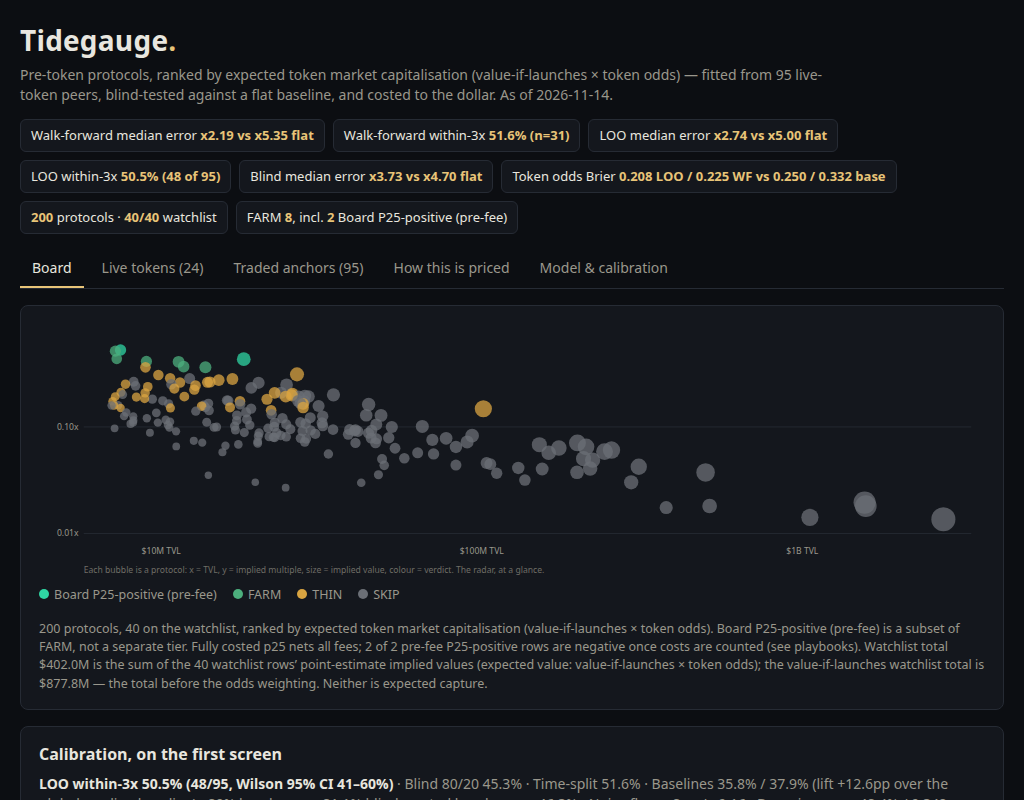
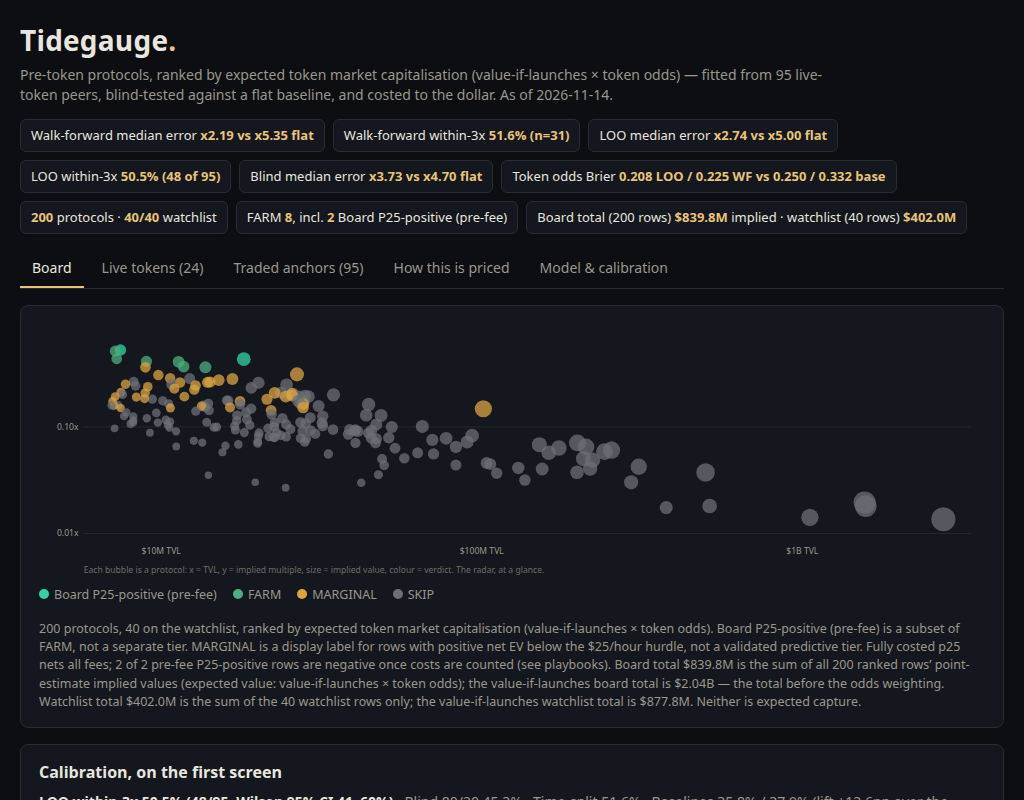
Round 11 (display-only): 200-row total, EV/h sort, MARGINAL label, old odds
Display-only port of round 10 on the round-8 model: headline board
total sums all 200 rows (watchlist kept as a labelled 40-row subtotal),
default board sort is net $/h with a toggle back to implied value, and
THIN is relabelled MARGINAL at render time (verdictLabel/Class/
FilterValue map the data value; the data still carries THIN) with the
display-only disclosure in the dossier text. lib/model.ts is untouched:
the age+size logistic odds stay (Brier 0.2085 LOO / 0.2253 WF), board
total $839.8M, watchlist $402.0M, top Steakhouse $37.33M at 0.583,
FARM 8, positive-EV 44. Two harness runs (92s/90s) byte-identical.

diff --git a/dashboard/app.js b/dashboard/app.js
@@ -8,6 +8,18 @@
 // regenerates the farm plans (farmStepsFor) with the same functions main.ts
 // runs, and checks both against the board's data. A mismatch shows a
 // warning: the screenshots and the code must agree.
+//
+// Round 11 (display-only, old odds): the token-odds model stays the
+// round-8 age + size logistic (Brier 0.208 LOO / 0.225 walk-forward).
+// The board table sorts by net $/hour by default. The headline board
+// total sums implied value across all 200 ranked rows (the 40-row
+// watchlist is a labelled subtotal). MARGINAL is a display label for
+// rows with positive net EV below the $25/hour hurdle \u2014 a
+// classification of the existing numbers, NOT a validated predictive
+// tier (the tier monotonicity gate failed: leave-one-out FARM positive
+// rate 50% below MARGINAL's 87.5%). The data still carries the
+// verdict 'THIN'; verdictLabel/verdictClass/verdictFilterValue map it
+// to MARGINAL at render time, the way P25-POSITIVE is already mapped.
 
 (function () {
   'use strict';
@@ -17,7 +29,7 @@
   var MODEL = DATA.model;
   var FIT = DATA.fit;
   var app = document.getElementById('board');
-  var state = { q: '', category: 'all', chain: 'all', verdict: 'all', minImp: '', sort: 'implied', dir: -1, tab: 'board', selected: null };
+  var state = { q: '', category: 'all', chain: 'all', verdict: 'all', minImp: '', sort: 'perhour', dir: -1, tab: 'board', selected: null };
 
   function esc(s) {
     return String(s === null || s === undefined ? '' : s).replace(/&/g, '&amp;').replace(/</g, '&lt;').replace(/>/g, '&gt;').replace(/"/g, '&quot;');
@@ -75,8 +87,10 @@
     return null;
   }
   function verdictCounts() {
-    var c = { 'P25-POSITIVE': 0, FARM: 0, THIN: 0, SKIP: 0 };
-    DATA.rows.forEach(function (r) { if (c[r.farm.verdict] !== undefined) c[r.farm.verdict]++; });
+    // The data carries 'THIN'; the board counts it under its display
+    // label MARGINAL (see verdictLabel below).
+    var c = { 'P25-POSITIVE': 0, FARM: 0, MARGINAL: 0, SKIP: 0 };
+    DATA.rows.forEach(function (r) { var k = r.farm.verdict === 'THIN' ? 'MARGINAL' : r.farm.verdict; if (c[k] !== undefined) c[k]++; });
     return c;
   }
   // How many Board P25-positive (pre-fee) rows go negative at p25 once
@@ -459,7 +473,7 @@
     var X = function (v) { return L + ((v - xlo) / (xhi - xlo)) * (W - L - R); };
     var Y = function (v) { return T + (1 - (v - ylo) / (yhi - ylo)) * (H - T - B); };
     var maxImp = Math.max.apply(null, rows.map(function (r) { return r.implied_value_usd; }));
-    var col = { 'P25-POSITIVE': '#2fd6a3', FARM: '#4caf7d', THIN: '#d9a441', SKIP: '#6b6f76' };
+    var col = { 'P25-POSITIVE': '#2fd6a3', FARM: '#4caf7d', MARGINAL: '#d9a441', SKIP: '#6b6f76' };
     var s = svgOpen(W, H);
     s += '<rect x="0" y="0" width="' + W + '" height="' + H + '" fill="#14171d"/>';
     logTicks(Math.log10(5e6), Math.log10(5e9)).forEach(function (e) {
@@ -478,7 +492,7 @@
     });
     rows.forEach(function (r) {
       var rad = 3 + 11 * Math.sqrt(r.implied_value_usd / maxImp);
-      s += '<circle cx="' + X(Math.log(r.tvl_usd)).toFixed(1) + '" cy="' + Y(Math.log10(Math.max(r.multiple, 0.001))).toFixed(1) + '" r="' + rad.toFixed(1) + '" fill="' + (col[r.farm.verdict] || '#6b6f76') + '" opacity="0.75"/>';
+      s += '<circle cx="' + X(Math.log(r.tvl_usd)).toFixed(1) + '" cy="' + Y(Math.log10(Math.max(r.multiple, 0.001))).toFixed(1) + '" r="' + rad.toFixed(1) + '" fill="' + (col[r.farm.verdict === 'THIN' ? 'MARGINAL' : r.farm.verdict] || '#6b6f76') + '" opacity="0.75"/>';
     });
     s += '<text x="' + L + '" y="' + (H - 8) + '" fill="#6f6d66" font-size="10">Each bubble is a protocol: x = TVL, y = implied multiple, size = implied value, colour = verdict. The radar, at a glance.</text>';
     s += '</svg>';
@@ -591,17 +605,22 @@
   // counts and the self-check compare against it), but no rendered text,
   // class or option value carries the bare string. The filter uses the
   // slug 'p25p' for the same reason.
+  // MARGINAL is a display label for the data verdict 'THIN' (positive
+  // net EV below the $25/hour hurdle), the same pattern as
+  // P25-POSITIVE above: the data value never changes \u2014 filters, counts
+  // and the self-check compare against it \u2014 only the rendered text,
+  // class and filter slug carry MARGINAL.
   function verdictLabel(v) {
-    return v === 'P25-POSITIVE' ? 'Board P25-positive (pre-fee)' : v;
+    return v === 'P25-POSITIVE' ? 'Board P25-positive (pre-fee)' : v === 'THIN' ? 'MARGINAL' : v;
   }
   function verdictClass(v) {
-    return v === 'P25-POSITIVE' ? 'P25P' : v;
+    return v === 'P25-POSITIVE' ? 'P25P' : v === 'THIN' ? 'MARGINAL' : v;
   }
   function verdictFilterValue(v) {
-    return v === 'P25-POSITIVE' ? 'p25p' : v;
+    return v === 'P25-POSITIVE' ? 'p25p' : v === 'THIN' ? 'marginal' : v;
   }
   function verdictFromFilter(f) {
-    return f === 'p25p' ? 'P25-POSITIVE' : f;
+    return f === 'p25p' ? 'P25-POSITIVE' : (f === 'marginal' || f === 'MARGINAL') ? 'THIN' : f;
   }
   // P25-FULL marker: the row still breaks even at p25 once every fee is
   // counted. Only the rows that do carry it.
@@ -820,7 +839,7 @@
     var farmTotal = (c['P25-POSITIVE'] || 0) + c.FARM;
     var w = medianBand50Width();
     var v = DATA.validation;
-    var h = '<div class="panel bandstrip"><p><b>Verdicts:</b> FARM ' + farmTotal + ', incl. ' + (c['P25-POSITIVE'] || 0) + ' Board P25-positive (pre-fee) &middot; THIN ' + c.THIN + ' &middot; SKIP ' + c.SKIP + '. Board P25-positive (pre-fee) is a subset of FARM (' + (c['P25-POSITIVE'] || 0) + ' of ' + farmTotal + '), not a fourth tier. Fully costed p25 nets all fees; ' + p25FullyCostedNegative().neg + ' of the ' + p25FullyCostedNegative().total + ' pre-fee P25-positive rows are negative once costs are counted (see playbooks).</p>';
+    var h = '<div class="panel bandstrip"><p><b>Verdicts:</b> FARM ' + farmTotal + ', incl. ' + (c['P25-POSITIVE'] || 0) + ' Board P25-positive (pre-fee) &middot; MARGINAL ' + c.MARGINAL + ' &middot; SKIP ' + c.SKIP + '. Board P25-positive (pre-fee) is a subset of FARM (' + (c['P25-POSITIVE'] || 0) + ' of ' + farmTotal + '), not a fourth tier. MARGINAL is a display label for rows with positive net EV below the $25/hour hurdle \u2014 a classification of the existing numbers, not a validated predictive tier (the tier monotonicity gate failed: leave-one-out FARM positive rate 50% below MARGINAL\u2019s 87.5%). Fully costed p25 nets all fees; ' + p25FullyCostedNegative().neg + ' of the ' + p25FullyCostedNegative().total + ' pre-fee P25-positive rows are negative once costs are counted (see playbooks).</p>';
     if (w !== null) h += '<p><b>The middle half:</b> across the board, the central band (45% coverage, p25\u2013p75) spans a median of ' + w.toFixed(1) + 'x from low end to high end \u2014 half of each row\u2019s plausible value sits inside that range, and half sits outside it.</p>';
     if (v.looBandRatioLo !== null && v.looBandRatioLo !== undefined && v.looBandRatioHi !== null && v.looBandRatioHi !== undefined) {
       h += '<p><b>Leave-one-out check:</b> the middle half of actual/implied ratios across the fit peers runs ' + v.looBandRatioLo.toFixed(2) + 'x\u2013' + v.looBandRatioHi.toFixed(2) + 'x \u2014 that is the shaded band in the scatter chart above.</p>';
@@ -846,9 +865,17 @@
     var lift = (v.adoptedWithin3 !== null && v.adoptedWithin3 !== undefined && flatGlobal) ? v.adoptedWithin3 - flatGlobal.within3 : null;
     var h = '<div class="panel calibstrip"><h2>Calibration, on the first screen</h2>' +
       '<p><b>LOO within-3x ' + fnum(v.adoptedWithin3, '', 1, '%') + ' (' + hits + '/' + looN + ', Wilson 95% CI ' + Math.round(ci[0] * 100) + '\u2013' + Math.round(ci[1] * 100) + '%)</b> &middot; Blind 80/20 ' + fnum(v.blindWithin3, '', 1, '%') + ' &middot; Time-split ' + fnum(v.timeSplitWithin3, '', 1, '%') + ' &middot; Baselines ' + (flat025 ? fnum(flat025.within3, '', 1, '%') : 'n/a') + ' / ' + (flatGlobal ? fnum(flatGlobal.within3, '', 1, '%') : 'n/a') + (lift === null ? '' : ' (lift +' + lift.toFixed(1) + 'pp over the global-median baseline)') + ' &middot; 80% band covers ' + (b.blindCov80 === undefined ? 'n/a' : (b.blindCov80 * 100).toFixed(1) + '%') + ' blind, central band covers ' + (b.blindCov50 === undefined ? 'n/a' : (b.blindCov50 * 100).toFixed(1) + '%') + ' &middot; Noise floor \u00b18pp / \u00b10.16 &middot; Bare size curve ' + (size ? fnum(size.within3, '', 1, '%') + ' / ' + fnum(size.spearman, '', 3, '') : 'n/a') + ' vs full model ' + fnum(v.adoptedWithin3, '', 1, '%') + ' / ' + fnum(v.adoptedSpearman, '', 3, '') + '.</p>' +
+      '<p><b>Board total (all 200 ranked rows): ' + fmtUsd(boardTotalAll()) + ' implied value</b> (' + fmtUsd(boardVilAll()) + ' value-if-launches) &middot; watchlist subtotal (40 rows): ' + fmtUsd(wlTotalSum()) + ' implied (' + fmtUsd(wlVilSum()) + ' value-if-launches). The headline total sums every ranked row; the watchlist is a labelled subset of it, not the whole board.</p>' +
       '<p>LOO on the ' + looN + ' peers with listing dates; ' + fnum(v.loo128Within3, '', 1, '%') + ' on all ' + looU + ' traded peers \u2014 the 33 peers without a listing date are systematically harder. Denominators, reconciled: ' + DATA.board_size + ' board rows \u2192 ' + looU + ' traded-token universe \u2192 ' + looN + ' scored peers \u2192 ' + v.timeSplitN + ' time-split. As of ' + esc(DATA.as_of) + ' \u00b7 Source: ' + esc(DATA.source) + '. Blind numbers are the mean across five 80/20 splits (seeds 11, 23, 37, 41, 53), each n=19 \u2014 not a pooled rate.</p></div>';
     return h;
   }
+  // Board totals, computed from the rows, never hardcoded: the headline
+  // total across all 200 ranked rows, the value-if-launches total, and the
+  // watchlist subtotals. The legend and the header KPIs read these.
+  function boardTotalAll() { var t = 0; DATA.rows.forEach(function (r) { t += r.implied_value_usd; }); return t; }
+  function boardVilAll() { var t = 0; DATA.rows.forEach(function (r) { t += r.model.value_if_launches; }); return t; }
+  function wlTotalSum() { var t = 0; DATA.rows.forEach(function (r) { if (r.is_watchlist) t += r.implied_value_usd; }); return t; }
+  function wlVilSum() { var t = 0; DATA.rows.forEach(function (r) { if (r.is_watchlist) t += r.model.value_if_launches; }); return t; }
   function boardHtml() {
     var rows = filteredRows();
     var cats = {};
@@ -866,7 +893,7 @@
     var wlVilTotal = 0;
     DATA.rows.forEach(function (r) { if (r.is_watchlist) wlVilTotal += r.model.value_if_launches; });
     var h = '<div class="panel mapwrap">' + bubbleMap(DATA.rows) +
-      '<div class="legend"><span><i style="background:#2fd6a3"></i>Board P25-positive (pre-fee)</span><span><i style="background:#4caf7d"></i>FARM</span><span><i style="background:#d9a441"></i>THIN</span><span><i style="background:#6b6f76"></i>SKIP</span><span>' + DATA.board_size + ' protocols, ' + DATA.watchlist_size + ' on the watchlist, ranked by expected token market capitalisation (value-if-launches &times; token odds). Board P25-positive (pre-fee) is a subset of FARM, not a separate tier. Fully costed p25 nets all fees; ' + p25FullyCostedNegative().neg + ' of ' + p25FullyCostedNegative().total + ' pre-fee P25-positive rows are negative once costs are counted (see playbooks). Watchlist total ' + fmtUsd(wlTotal) + ' is the sum of the ' + DATA.watchlist_size + ' watchlist rows\u2019 point-estimate implied values (expected value: value-if-launches &times; token odds); the value-if-launches watchlist total is ' + fmtUsd(wlVilTotal) + ' \u2014 the total before the odds weighting. Neither is expected capture.</span></div></div>';
+      '<div class="legend"><span><i style="background:#2fd6a3"></i>Board P25-positive (pre-fee)</span><span><i style="background:#4caf7d"></i>FARM</span><span><i style="background:#d9a441"></i>MARGINAL</span><span><i style="background:#6b6f76"></i>SKIP</span><span>' + DATA.board_size + ' protocols, ' + DATA.watchlist_size + ' on the watchlist, ranked by expected token market capitalisation (value-if-launches &times; token odds). Board P25-positive (pre-fee) is a subset of FARM, not a separate tier. MARGINAL is a display label for rows with positive net EV below the $25/hour hurdle, not a validated predictive tier. Fully costed p25 nets all fees; ' + p25FullyCostedNegative().neg + ' of ' + p25FullyCostedNegative().total + ' pre-fee P25-positive rows are negative once costs are counted (see playbooks). Board total ' + fmtUsd(boardTotalAll()) + ' is the sum of all ' + DATA.board_size + ' ranked rows\u2019 point-estimate implied values (expected value: value-if-launches &times; token odds); the value-if-launches board total is ' + fmtUsd(boardVilAll()) + ' \u2014 the total before the odds weighting. Watchlist total ' + fmtUsd(wlTotal) + ' is the sum of the ' + DATA.watchlist_size + ' watchlist rows only; the value-if-launches watchlist total is ' + fmtUsd(wlVilTotal) + '. Neither is expected capture.</span></div></div>';
     h += calibrationStripHtml();
     h += accountingHtml();
     h += '<div class="panel mapwrap"><h2>Where the market sits against the yardstick</h2>' + ratioScatter() + '</div>';
@@ -883,6 +910,7 @@
       '<select id="f-verdict"><option value="all">All verdicts</option>' +
       ['P25-POSITIVE', 'FARM', 'THIN', 'SKIP'].map(function (v) { return '<option value="' + verdictFilterValue(v) + '"' + (verdictFromFilter(state.verdict) === v ? ' selected' : '') + '>' + verdictLabel(v) + '</option>'; }).join('') + '</select>' +
       '<input id="f-min" type="number" min="0" step="1" placeholder="Min implied $M" value="' + esc(state.minImp) + '" style="flex:0 1 130px">' +
+      '<span class="sorttoggle">Sort: <button data-sortbtn="perhour"' + (state.sort === 'perhour' ? ' class="on"' : '') + '>Net $/h</button> <button data-sortbtn="implied"' + (state.sort === 'implied' ? ' class="on"' : '') + '>Implied value</button></span>' +
       '<span class="count">showing ' + rows.length + ' of ' + DATA.rows.length + '</span></div>';
     h += '<table><thead><tr>' +
       '<th data-sort="rank">Rank</th><th>Protocol</th><th class="num" data-sort="tvl">TVL</th><th class="num" data-sort="growth">7d</th><th class="num" data-sort="age">Age</th><th class="num" data-sort="implied">Implied value</th><th class="num" data-sort="odds">Token odds</th><th class="num">P10\u2013P90</th><th class="num">P25\u2013P75</th><th class="num">Multiple</th><th class="num">Gross</th><th class="num">Cost</th><th class="num">Net EV</th><th class="num" data-sort="breakeven">BE odds</th><th class="num" data-sort="perhour">Net $/h</th><th class="num">Fees &middot; Hold</th><th>Verdict</th>' +
@@ -895,7 +923,7 @@
       // beside the pre-fee p25 — the badge is defined on board costs, so
       // the two p25 figures sit next to each other instead of disagreeing
       // across tabs.
-      var vTitle = r.farm.verdict === 'THIN' ? 'THIN: net EV at least $0, but under $40 or under 1.5x the cost \u2014 clears neither FARM gate.' : r.farm.verdict === 'P25-POSITIVE' ? 'Board P25-positive (pre-fee): net EV still at least $0 at the 25th percentile of the model\u2019s out-of-sample error (1 in 4 realisations is worse), on board costs (gas + opportunity cost) only \u2014 the fully costed p25 is shown beside the badge.' : r.farm.verdict === 'FARM' ? 'FARM: net EV at least $40 and at least 1.5x the cost at the median.' : 'SKIP: net EV below $0 at the median.';
+      var vTitle = r.farm.verdict === 'THIN' ? 'MARGINAL: net EV at least $0, but under $40 or under 1.5x the cost \u2014 clears neither FARM gate. A display label for positive-EV rows below the $25/hour hurdle, not a validated predictive tier.' : r.farm.verdict === 'P25-POSITIVE' ? 'Board P25-positive (pre-fee): net EV still at least $0 at the 25th percentile of the model\u2019s out-of-sample error (1 in 4 realisations is worse), on board costs (gas + opportunity cost) only \u2014 the fully costed p25 is shown beside the badge.' : r.farm.verdict === 'FARM' ? 'FARM: net EV at least $40 and at least 1.5x the cost at the median.' : 'SKIP: net EV below $0 at the median.';
       var vCell = verdictBadge(r.farm.verdict) + p25FullMarker(r);
       if (r.farm.verdict === 'P25-POSITIVE' && r.playbook) {
         vCell += '<span class="p25full">pre-fee p25 ' + (r.playbook.netEvP25Board >= 0 ? '+' : '') + fmtUsd2(r.playbook.netEvP25Board) + ' \u00b7 fully costed p25 ' + (r.playbook.netEvP25Full >= 0 ? '+' : '') + fmtUsd2(r.playbook.netEvP25Full) + '</span>';
@@ -1021,7 +1049,7 @@
       '<p><b>Coherence:</b> Spearman between TVL and implied value across the 40 watchlist rows is ' + v.coherence.toFixed(3) + ' (bar 0.75) \u2014 the multipliers do not overpower TVL. <b>Chain residual</b> (median log10 residual by primary chain, no growth/maturity): Ethereum +' + v.chainEthDex.toFixed(3) + ' dex, Solana ' + v.chainSolDex.toFixed(3) + ' dex.</p>' +
       '<h3>Calibration</h3>' + calibrationChart() +
       '<h3>Farm verdicts</h3>' +
-      '<p>Each row\u2019s verdict is a visible subtraction, not a threshold on value. The hypothetical airdrop pool is 8% of the implied value (a stated assumption \u2014 the snapshot cannot establish whether an airdrop will happen); the farmer\u2019s share is the pool times $2,500 of capital over the protocol\u2019s TVL; the cost is the steps\u2019 gas plus 4.5% a year on the capital for 90 days. <b>FARM</b> needs a net expected value of at least $40 and at least 1.5x the cost; <b>THIN</b> needs a net expected value of at least $0; anything else is <b>SKIP</b>. The $40 threshold was set from the distribution so that it adds nothing the 1.5x ratio test has not already selected. A $2.75B-TVL curator gives a $2,500 position almost nothing \u2014 that is dilution, honestly reported, and why an impressive TVL never automatically means FARM.</p>' +
+      '<p>Each row\u2019s verdict is a visible subtraction, not a threshold on value. The hypothetical airdrop pool is 8% of the implied value (a stated assumption \u2014 the snapshot cannot establish whether an airdrop will happen); the farmer\u2019s share is the pool times $2,500 of capital over the protocol\u2019s TVL; the cost is the steps\u2019 gas plus 4.5% a year on the capital for 90 days. <b>FARM</b> needs a net expected value of at least $40 and at least 1.5x the cost; <b>MARGINAL</b> needs a net expected value of at least $0; anything else is <b>SKIP</b>. MARGINAL is a display label for the positive-EV rows that clear neither FARM gate (below the $25/hour hurdle) \u2014 a classification of the existing numbers, NOT a validated predictive tier: the tier monotonicity gate failed (leave-one-out FARM positive rate 50% below MARGINAL\u2019s 87.5%), so the tiers are not presented as a prediction of which rows will pay. The $40 threshold was set from the distribution so that it adds nothing the 1.5x ratio test has not already selected. A $2.75B-TVL curator gives a $2,500 position almost nothing \u2014 that is dilution, honestly reported, and why an impressive TVL never automatically means FARM.</p>' +
       '<p><b>Board P25-positive (pre-fee)</b> is a FARM row whose net expected value is still at least $0 at the 25th percentile of the model\u2019s out-of-sample error (1 in 4 realisations is worse \u2014 p25 is not the low end), on top of the FARM gates ($40 net EV and 1.5x the cost at the median). No row on this board clears $40 at p25; the strongest p25 case is ' + (bestP25 === null ? 'n/a' : esc(bestP25.name) + ' at +' + fmtUsd2(bestP25.farm.netEvP25)) + '. The original $40-at-p25 bar returned zero rows, so the tier is defined by the break-even floor instead \u2014 a disclosed change, not a hidden one. Board P25-positive (pre-fee) is a subset of FARM (' + (vc['P25-POSITIVE'] || 0) + ' of ' + farmTotal + '), not a fourth tier. The badge is defined on board costs (gas + opportunity cost) only: fully costed p25 nets all fees, and ' + p25FullyCostedNegative().neg + ' of the ' + p25FullyCostedNegative().total + ' pre-fee P25-positive rows are negative once costs are counted (see playbooks). Every row also carries its <b>break-even odds</b> \u2014 the chance the token\u2019s value lands above the value at which the farm breaks even \u2014 and its <b>net $/hour</b>, the net expected value divided by the hands-on minutes the plan asks for, so a slow farm can be compared with a quick one on the same footing.</p>' +
       playbookMethodHtml() +
       '<h3>What this does not do</h3>' +
@@ -1262,7 +1290,7 @@
       }).join('') + '</tbody></table>' +
       '<h3>Farm plan</h3>' +
       '<div class="verdictbox ' + verdictClass(f.verdict) + '"><b>' + verdictLabel(f.verdict) + '</b>' + p25FullMarker(row) + ' &middot; net expected value <span class="net">' + (f.netEv >= 0 ? '+' : '') + fmtUsd2(f.netEv) + '</span> on $' + f.capital.toLocaleString('en-US') + ' of capital' +
-      '<br><span class="small">Hypothetical pool 8% of implied value = ' + fmtUsd(f.pool) + '; your share (pool x $' + f.capital.toLocaleString('en-US') + ' / ' + fmtUsd(row.tvl_usd) + ' TVL) = ' + fmtUsd2(f.share) + '; gas ' + fmtUsd2(f.gasTotal) + ' + opportunity cost ' + fmtUsd2(f.oppCost) + ' = ' + fmtUsd2(f.totalCost) + ' total; share &minus; cost = ' + fmtUsd2(f.netEv) + ' (' + f.netEvRatio.toFixed(2) + 'x the cost). FARM needs at least $40 and 1.5x; THIN needs at least $0.' + p25Note + beNote + '</span></div>' +
+      '<br><span class="small">Hypothetical pool 8% of implied value = ' + fmtUsd(f.pool) + '; your share (pool x $' + f.capital.toLocaleString('en-US') + ' / ' + fmtUsd(row.tvl_usd) + ' TVL) = ' + fmtUsd2(f.share) + '; gas ' + fmtUsd2(f.gasTotal) + ' + opportunity cost ' + fmtUsd2(f.oppCost) + ' = ' + fmtUsd2(f.totalCost) + ' total; share &minus; cost = ' + fmtUsd2(f.netEv) + ' (' + f.netEvRatio.toFixed(2) + 'x the cost). FARM needs at least $40 and 1.5x; MARGINAL needs at least $0.' + p25Note + beNote + '</span></div>' +
       '<ol class="steps">' + row.farm_steps.map(function (s) { return '<li>' + esc(s) + '</li>'; }).join('') + '</ol>' +
       '<p class="small"><b>Downside:</b> at the 25th percentile (p25 ' + (p25 === null ? 'n/a' : fmtUsd(p25)) + ') the pool is ' + (pool25 === null ? 'n/a' : fmtUsd(pool25)) + ', your share ' + (share25 === null ? 'n/a' : fmtUsd2(share25)) + ', the same cost ' + fmtUsd2(f.totalCost) + ', so net EV ' + (netEv25 === null ? 'n/a' : (netEv25 >= 0 ? '+' : '') + fmtUsd2(netEv25)) + '. Judged at the median; p25 is the 25th percentile of the model\u2019s out-of-sample error \u2014 1 in 4 realisations is worse, not the low end.</p>' +
       (f.verdict === 'FARM' || f.verdict === 'P25-POSITIVE' ? '<p class="small"><b>P10:</b> ' + fmtUsd(p10) + ' net EV ' + (netEv10 >= 0 ? '+' : '') + fmtUsd2(netEv10) + '. Farm only if it clears p10.</p>' : '') +
@@ -1284,7 +1312,7 @@
     var h = '<div class="wrap">' +
       '<header><h1>Tidegauge<span class="dot">.</span></h1>' +
       '<p class="sub">Pre-token protocols, ranked by expected token market capitalisation (value-if-launches &times; token odds) \u2014 fitted from ' + FIT.peerCount + ' live-token peers, blind-tested against a flat baseline, and costed to the dollar. As of ' + esc(DATA.as_of) + '.</p>' +
-      '<div class="kpi"><span>Walk-forward median error <b>x' + fnum(v.timeSplitMedianMaxRatio, '', 2, '') + ' vs x' + fnum(v.flatTimeSplitMedianMaxRatio, '', 2, '') + ' flat</b></span><span>Walk-forward within-3x <b>' + (v.timeSplitWithin3 === null || v.timeSplitWithin3 === undefined ? 'n/a' : v.timeSplitWithin3.toFixed(1) + '% (n=' + v.timeSplitN + ')') + '</b></span><span>LOO median error <b>x' + fnum(v.adoptedMedianMaxRatio, '', 2, '') + ' vs x' + (looFlatRow() === null ? 'n/a' : fnum(looFlatRow().medianMaxRatio, '', 2, '')) + ' flat</b></span><span>LOO within-3x <b>' + (v.adoptedWithin3 === null || v.adoptedWithin3 === undefined ? 'n/a' : v.adoptedWithin3.toFixed(1) + '% (' + DATA.peers.filter(function (p) { return p.oofWithin3; }).length + ' of ' + (v.peerCount || FIT.peerCount) + ')') + '</b></span><span>Blind median error <b>x' + fnum(v.blindMedianMaxRatio, '', 2, '') + ' vs x' + fnum(v.flatBlindMedianMaxRatio, '', 2, '') + ' flat</b></span><span>Token odds Brier <b>' + DATA.odds.brierLoo.toFixed(3) + ' LOO / ' + DATA.odds.brierWf.toFixed(3) + ' WF vs ' + DATA.odds.baseBrierLoo.toFixed(3) + ' / ' + DATA.odds.baseBrierWf.toFixed(3) + ' base</b></span><span><b>' + DATA.board_size + '</b> protocols &middot; <b>' + DATA.watchlist_size + '/' + DATA.watchlist_size + '</b> watchlist</span><span>FARM <b>' + ((vc['P25-POSITIVE'] || 0) + vc.FARM) + '</b>, incl. <b>' + (vc['P25-POSITIVE'] || 0) + '</b> Board P25-positive (pre-fee)</span></div></header>' +
+      '<div class="kpi"><span>Walk-forward median error <b>x' + fnum(v.timeSplitMedianMaxRatio, '', 2, '') + ' vs x' + fnum(v.flatTimeSplitMedianMaxRatio, '', 2, '') + ' flat</b></span><span>Walk-forward within-3x <b>' + (v.timeSplitWithin3 === null || v.timeSplitWithin3 === undefined ? 'n/a' : v.timeSplitWithin3.toFixed(1) + '% (n=' + v.timeSplitN + ')') + '</b></span><span>LOO median error <b>x' + fnum(v.adoptedMedianMaxRatio, '', 2, '') + ' vs x' + (looFlatRow() === null ? 'n/a' : fnum(looFlatRow().medianMaxRatio, '', 2, '')) + ' flat</b></span><span>LOO within-3x <b>' + (v.adoptedWithin3 === null || v.adoptedWithin3 === undefined ? 'n/a' : v.adoptedWithin3.toFixed(1) + '% (' + DATA.peers.filter(function (p) { return p.oofWithin3; }).length + ' of ' + (v.peerCount || FIT.peerCount) + ')') + '</b></span><span>Blind median error <b>x' + fnum(v.blindMedianMaxRatio, '', 2, '') + ' vs x' + fnum(v.flatBlindMedianMaxRatio, '', 2, '') + ' flat</b></span><span>Token odds Brier <b>' + DATA.odds.brierLoo.toFixed(3) + ' LOO / ' + DATA.odds.brierWf.toFixed(3) + ' WF vs ' + DATA.odds.baseBrierLoo.toFixed(3) + ' / ' + DATA.odds.baseBrierWf.toFixed(3) + ' base</b></span><span><b>' + DATA.board_size + '</b> protocols &middot; <b>' + DATA.watchlist_size + '/' + DATA.watchlist_size + '</b> watchlist</span><span>FARM <b>' + ((vc['P25-POSITIVE'] || 0) + vc.FARM) + '</b>, incl. <b>' + (vc['P25-POSITIVE'] || 0) + '</b> Board P25-positive (pre-fee)</span><span>Board total (200 rows) <b>' + fmtUsd(boardTotalAll()) + '</b> implied &middot; watchlist (40 rows) <b>' + fmtUsd(wlTotalSum()) + '</b></span></div></header>' +
       '<nav class="tabs">' +
       '<button data-tab="board"' + (state.tab === 'board' ? ' class="on"' : '') + '>Board</button>' +
       '<button data-tab="live"' + (state.tab === 'live' ? ' class="on"' : '') + '>Live tokens (' + DATA.live_size + ')</button>' +
@@ -1331,6 +1359,14 @@
         var k = ev.currentTarget.getAttribute('data-sort');
         if (state.sort === k) state.dir = -state.dir;
         else { state.sort = k; state.dir = k === 'rank' ? 1 : -1; }
+        render();
+      });
+    }
+    var sortBtns = app.querySelectorAll('button[data-sortbtn]');
+    for (var sb = 0; sb < sortBtns.length; sb++) {
+      sortBtns[sb].addEventListener('click', function (ev) {
+        state.sort = ev.currentTarget.getAttribute('data-sortbtn');
+        state.dir = -1;
         render();
       });
     }
@@ -1415,7 +1451,7 @@
     closeDetail();
     // Deep-link a filtered board, e.g. #/board?verdict=FARM. The old
     // P25-POSITIVE spelling still links: it is normalised to the filter slug.
-    var vm = hash.match(/verdict=(P25-POSITIVE|p25p|FARM|THIN|SKIP)/);
+    var vm = hash.match(/verdict=(P25-POSITIVE|p25p|FARM|MARGINAL|marginal|THIN|SKIP)/);
     if (vm) state.verdict = verdictFilterValue(vm[1]);
     render();
   }

diff --git a/dashboard/app.css b/dashboard/app.css
@@ -26,6 +26,10 @@ header h1 .dot{color:var(--amber)}
 .filters input,.filters select{background:var(--panel2);color:var(--text);border:1px solid var(--line);border-radius:6px;padding:7px 9px;font:inherit;font-size:13px}
 .filters input{flex:1 1 200px;min-width:160px}
 .filters .count{color:var(--muted);font-size:13px;margin-left:auto}
+.sorttoggle{color:var(--muted);font-size:13px;white-space:nowrap}
+.sorttoggle button{background:var(--panel2);color:var(--muted);border:1px solid var(--line);border-radius:5px;padding:3px 9px;cursor:pointer;font:inherit;font-size:13px}
+.sorttoggle button.on{background:#173b2a;color:#7fd6a4;border-color:#235c3d}
+.sorttoggle button:hover{color:var(--text)}
 table{width:100%;border-collapse:collapse;font-size:13.5px}
 th,td{padding:8px 10px;border-bottom:1px solid var(--line);text-align:left;vertical-align:top}
 th{color:var(--muted);font-weight:600;font-size:12px;text-transform:uppercase;letter-spacing:.4px;cursor:pointer;user-select:none;white-space:nowrap}
@@ -37,7 +41,7 @@ td .cat{display:block;font-size:12px;color:var(--muted)}
 td .slug{color:var(--dim);font-size:12px}
 .badge{display:inline-block;border-radius:5px;padding:2px 8px;font-size:12px;font-weight:650;letter-spacing:.3px}
 .badge.FARM{background:#173b2a;color:#7fd6a4}
-.badge.THIN{background:#3d2f14;color:#e8c478}
+.badge.MARGINAL{background:#3d2f14;color:#e8c478}
 .badge.SKIP{background:#26292f;color:#9a978c}
 .wl{font-size:11px;color:var(--amber);border:1px solid #4a3d22;border-radius:4px;padding:0 5px;margin-left:6px;white-space:nowrap}
 .mech{font-size:11px;color:var(--blue);border:1px solid #2b3d4d;border-radius:4px;padding:0 5px;margin-left:6px;white-space:nowrap}
@@ -68,7 +72,7 @@ td .slug{color:var(--dim);font-size:12px}
 .steps .st-cost{color:var(--muted);font-size:12.5px}
 .verdictbox{border-radius:8px;padding:12px 14px;margin:12px 0;font-size:13.5px}
 .verdictbox.FARM{background:#12291c;border:1px solid #235c3d}
-.verdictbox.THIN{background:#2b2110;border:1px solid #6b5518}
+.verdictbox.MARGINAL{background:#2b2110;border:1px solid #6b5518}
 .verdictbox.SKIP{background:#1a1c20;border:1px solid var(--line)}
 .verdictbox .net{font-size:18px;font-weight:700}
 .warn{background:#2b1610;border:1px solid #6b2d1d;color:#f0b09a;border-radius:6px;padding:10px 12px;margin:12px 0}

diff --git a/main.ts b/main.ts
@@ -112,6 +112,6 @@ const watchTotal = board.filter((r) => r.is_watchlist).reduce((s, r) => s + r.im
 process.stdout.write(
   `token radar: ${snapshot.protocols.length} protocols, ${snapshot.watchlist.length} on the watchlist, ${board.length} rows scored (${radar.early_size} early, ${radar.live_size} live set aside)\n` +
     `token radar: watchlist implied value $${(watchTotal / 1e9).toFixed(3)}B, LOO median error x${radar.validation.adoptedMedianMaxRatio.toFixed(2)}, ${radar.validation.adoptedWithin3.toFixed(1)}% within 3x\n` +
-    `token radar: verdicts P25-POSITIVE ${farm['P25-POSITIVE']} / FARM ${farm.FARM} / THIN ${farm.THIN} / SKIP ${farm.SKIP} (FARM ${farm.FARM + farm['P25-POSITIVE']} incl. P25-positive ${farm['P25-POSITIVE']})\n` +
+    `token radar: verdicts P25-POSITIVE ${farm['P25-POSITIVE']} / FARM ${farm.FARM} / MARGINAL ${farm.THIN} / SKIP ${farm.SKIP} (FARM ${farm.FARM + farm['P25-POSITIVE']} incl. P25-positive ${farm['P25-POSITIVE']})\n` +
     `token radar: wrote ${join(out, 'board.json')}, ${join(out, 'data.js')}, ${join(out, 'dashboard')} (${dashFiles.length} files), ${join(out, 'screenshots')} (${shots.length} images) and ${join(out, 'dossier.json')}\n`,
 );
